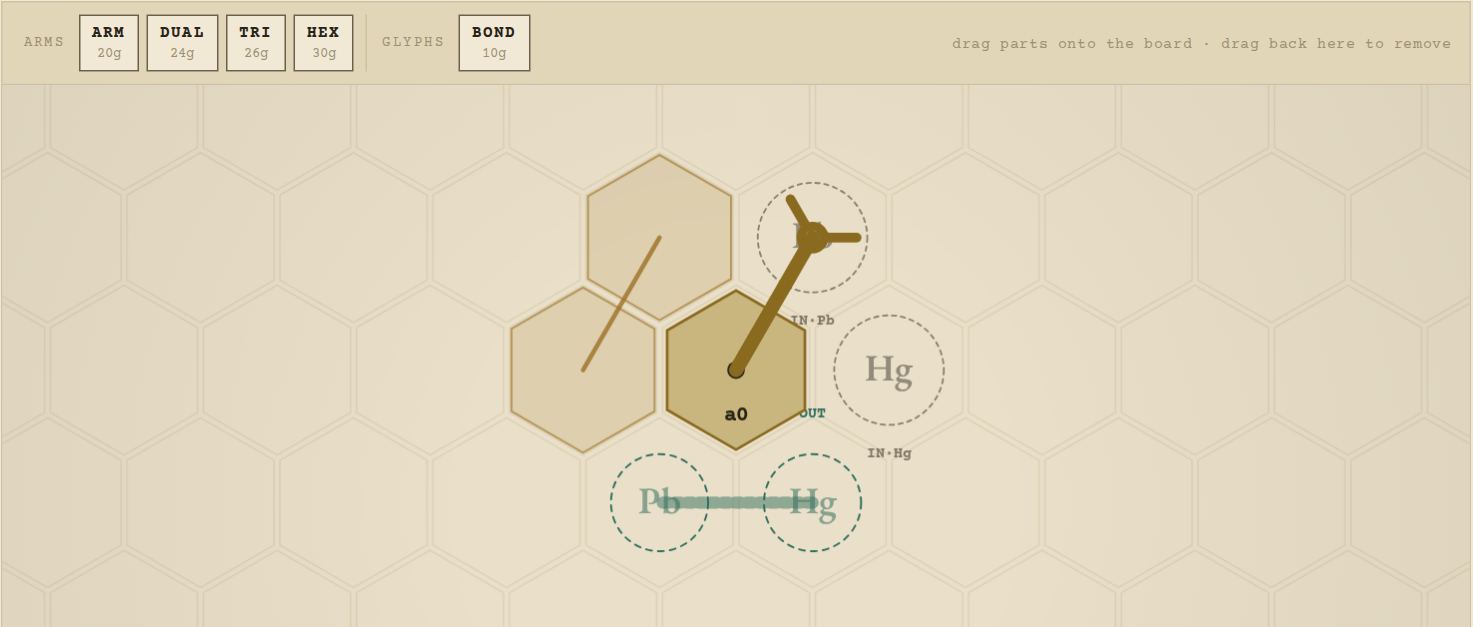
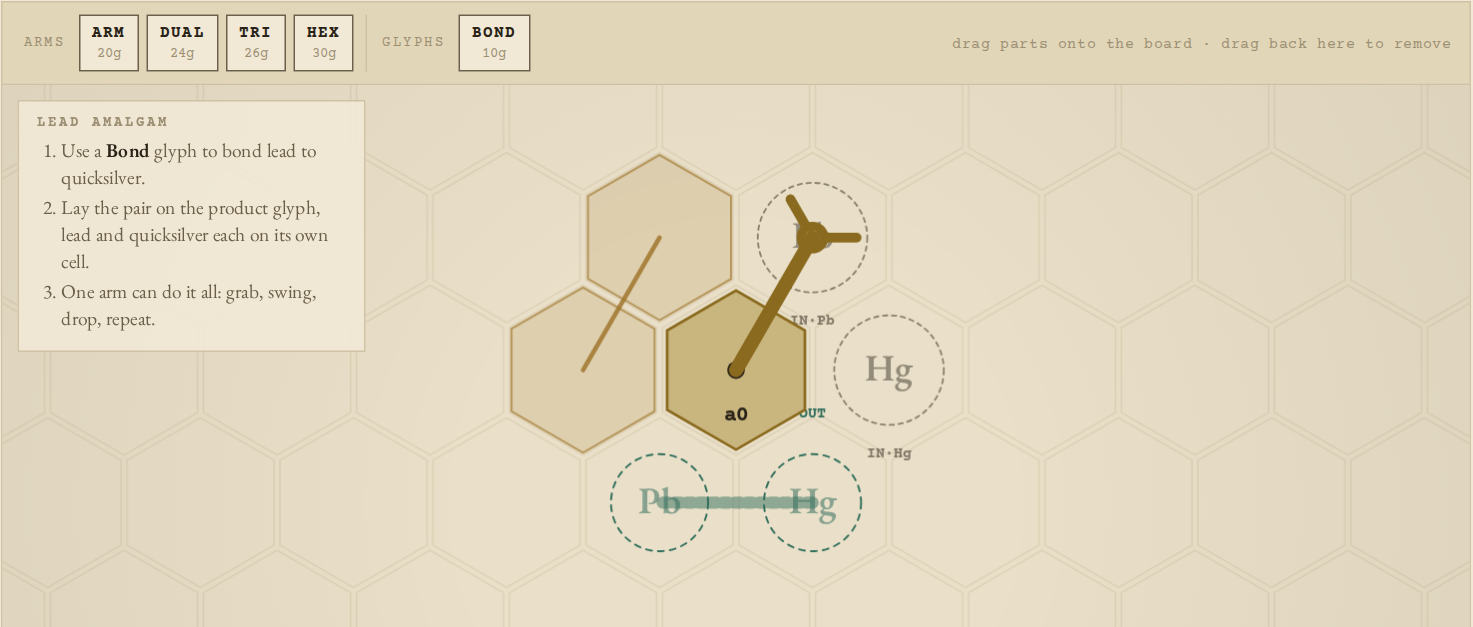
Each puzzle carries a short guide, pinned to the board's top-left
The catalog's PRODUCTS now hold a few steps per puzzle, each naming the
glyph to use ("Use a Bond glyph to bond lead to quicksilver"); the
editor shows them in a card at the board's top-left while editing,
opposite the glyph card, and hides it during a run.

Claude-Session: https://claude.ai/code/session_018wKEnzM1VN1P3HPkKDTKnD

Changed region(s): [[0.0, 0.1818, 0.2498, 0.3939], [0.0, 0.4242, 0.2186, 0.5455], [0.2186, 0.4848, 0.2498, 0.5152]]

diff --git a/demo/editor.html b/demo/editor.html
@@ -211,7 +211,17 @@
   .glyphhelp h3 small { font-family: var(--mono); font-size: 9.5px; font-weight: 400; letter-spacing: .08em; color: var(--ink-faint); text-transform: none; }
   .glyphhelp .diagram { display: block; width: 100%; height: auto; margin-top: 6px; }
   .glyphhelp .note { font-family: var(--mono); font-size: 9.5px; letter-spacing: .04em; color: var(--ink-dim); margin-top: 6px; padding-top: 6px; border-top: 1px solid var(--line-soft); line-height: 1.5; }
-  @media (max-width: 640px) { .glyphhelp { display: none !important; } }
+  /* the puzzle guide: the same card, pinned top-left, with a few steps for this puzzle */
+  .guide {
+    position: absolute; top: 10px; left: 10px; width: 232px; max-width: calc(44% - 10px);
+    border: 1px solid var(--line); background: rgba(241,233,214,.9); color: var(--ink);
+    padding: 9px 12px 10px; pointer-events: none;
+  }
+  .guide h3 { font-family: var(--mono); font-size: 9.5px; font-weight: 700; letter-spacing: .14em; text-transform: uppercase; color: var(--ink-faint); }
+  .guide ol { margin: 5px 0 0 16px; padding: 0; }
+  .guide li { font-size: 13px; line-height: 1.35; margin: 3px 0; color: var(--ink-dim); }
+  .guide li b { font-weight: 600; color: var(--ink); }
+  @media (max-width: 640px) { .glyphhelp, .guide { display: none !important; } }
 
   /* how to play: a short tutorial with screenshots, then the controls reference */
   dialog.howtodlg { width: min(720px, calc(100vw - 36px)); }
@@ -273,6 +283,7 @@
   <div class="stagebox">
     <canvas id="field" width="980" height="560"></canvas>
     <div class="stamp" id="stamp"><div class="stamp-inner" id="stampInner"></div></div>
+    <aside class="guide" id="guide" hidden></aside>
     <aside class="glyphhelp" id="glyphHelp" hidden></aside>
   </div>
 
@@ -1562,22 +1573,43 @@
   // plus calcification wherever the product holds salt, even when salt arrives as a
   // reagent and the glyph is strictly optional. It is editor guidance, not a rule —
   // the chain verifies any glyph — but every example machine must build from its
-  // product's tray (checked below).
+  // product's tray (checked below). `guide` is the editor's little tutorial for the
+  // puzzle: a few steps, each naming the glyph to use.
   const PRODUCTS = [
     { key: 'amalgam',          name: 'Lead Amalgam',       blurb: 'Quicksilver bonded to lead. The floor every builder starts from.',
-      glyphs: ['bonders'] },
+      glyphs: ['bonders'],
+      guide: ['Use a <b>Bond</b> glyph to bond lead to quicksilver.',
+              'Lay the pair on the product glyph, lead and quicksilver each on its own cell.',
+              'One arm can do it all: grab, swing, drop, repeat.'] },
     { key: 'saltedquicksilver', name: 'Salted Quicksilver', blurb: 'Salt, quicksilver, salt in one chain.',
-      glyphs: ['bonders', 'calcifiers'] },
+      glyphs: ['bonders', 'calcifiers'],
+      guide: ['Use a <b>Bond</b> glyph to bond salt to quicksilver.',
+              'Bond the second salt to the quicksilver\'s other side, in a bent chain.',
+              'Turn the chain to match the product glyph before you lay it down.'] },
     { key: 'transmutedgold',   name: 'Transmuted Gold',    blurb: 'Lead to tin to iron to copper to silver to gold, one rung per quicksilver.',
-      glyphs: ['projectors', 'purifiers'] },
+      glyphs: ['projectors', 'purifiers'],
+      guide: ['Use a <b>Projection</b> glyph to turn lead to tin: the metal on one cell, a released quicksilver on the other.',
+              'Feed it quicksilver again and again — tin to iron, iron to copper, copper to silver, silver to gold.',
+              'A <b>Purify</b> glyph climbs the same ladder by fusing two of a metal instead.'] },
     { key: 'vitalsalts',       name: 'Vital Salts',        blurb: 'Two salts, mors and vitae in a chain — water alone, calcified and animated.',
-      glyphs: ['bonders', 'calcifiers', 'animismus'] },
+      glyphs: ['bonders', 'calcifiers', 'animismus'],
+      guide: ['Use <b>Calcify</b> glyphs to turn water into salt.',
+              'Use an <b>Animismus</b> glyph to turn two released salts into vitae and mors.',
+              'Use a <b>Bond</b> glyph to chain salt, salt, mors and vitae.'] },
     { key: 'airshipfuel',      name: 'Airship Fuel',       blurb: 'Fire alone becomes a zigzag of salt and flame.',
-      glyphs: ['bonders', 'calcifiers'] },
+      glyphs: ['bonders', 'calcifiers'],
+      guide: ['Use a <b>Calcify</b> glyph to turn some of the fire into salt.',
+              'Use <b>Bond</b> glyphs to build the zigzag: salt, fire, fire, salt.'] },
     { key: 'surrenderflare',   name: 'Surrender Flare',    blurb: 'An iron core sealed inside six salt petals must come out copper.',
-      glyphs: ['bonders', 'debonders', 'calcifiers', 'projectors'] },
+      glyphs: ['bonders', 'debonders', 'calcifiers', 'projectors'],
+      guide: ['Use an <b>Unbond</b> glyph to free one salt petal, so the iron core has an open side.',
+              'Use a <b>Projection</b> glyph to turn the iron to copper with a released quicksilver.',
+              'Use a <b>Bond</b> glyph to put the petal back, then deliver the flower.'] },
     { key: 'ablativecrystal',  name: 'Ablative Crystal',   blurb: 'Two silver-core flowers must become one thirteen-atom crystal. Still unsolved.',
-      glyphs: ['bonders', 'debonders', 'calcifiers', 'purifiers'] },
+      glyphs: ['bonders', 'debonders', 'calcifiers', 'purifiers'],
+      guide: ['Use <b>Unbond</b> glyphs to take the two flowers apart.',
+              'Use a <b>Purify</b> glyph to fuse the two silvers into one gold.',
+              'Use <b>Bond</b> glyphs to build the crystal: gold at the core, a ring of six fire, six salt at the points.'] },
   ];
   const GLYPH_FAMILIES = ['bonders', 'debonders', 'calcifiers', 'duplicators', 'projectors', 'purifiers', 'animismus', 'disposals'];
 
@@ -1856,7 +1888,7 @@
     return PRODUCTS.map((p, id) => {
       const examples = EXAMPLES.filter(ex => ex.product === p.key && ex.puzzle.output);
       if (!examples.length) throw new Error('product without an example: ' + p.key);
-      return { id, key: p.key, name: p.name, blurb: p.blurb, glyphs: p.glyphs.slice(), examples };
+      return { id, key: p.key, name: p.name, blurb: p.blurb, glyphs: p.glyphs.slice(), guide: (p.guide || []).slice(), examples };
     });
   }
   for (const p of PRODUCTS) {
@@ -2559,7 +2591,7 @@
   const BASES = EXAMPLES.catalog().map(entry => {
     const pz = entry.examples[0].puzzle;
     return {
-      key: entry.key, name: entry.name, blurb: entry.blurb, caps: pz.caps, glyphs: entry.glyphs,
+      key: entry.key, name: entry.name, blurb: entry.blurb, caps: pz.caps, glyphs: entry.glyphs, guide: entry.guide,
       reagentShapes: (pz.inputs || []).map(normalizeMol),
       productShape: normalizeMol(pz.output),
       defaultLayout: {
@@ -2610,6 +2642,14 @@
   function syncTray() {
     const offer = new Set(base().glyphs || []);
     document.querySelectorAll('#tray .part[data-glyph]').forEach(el => { el.hidden = !offer.has(el.dataset.glyph); });
+  }
+  // the puzzle's guide, top-left of the board while editing
+  function syncGuide() {
+    const el = $('guide');
+    const steps = base().guide || [];
+    if (mode !== 'edit' || !steps.length) { el.hidden = true; return; }
+    el.innerHTML = `<h3>${base().name}</h3><ol>${steps.map(t => `<li>${t}</li>`).join('')}</ol>`;
+    el.hidden = false;
   }
   // the tutorial card: shown for the selected glyph, or the one being carried in from the tray
   function syncGlyphHelp() {
@@ -3660,7 +3700,7 @@
     $('btnMode').textContent = '▶ Test';
     $('btnPlay').disabled = true; $('btnStep').disabled = true;
     $('tray').style.display = '';
-    stamp(); syncGifBtn();
+    stamp(); syncGifBtn(); syncGuide();
   }
   function enterRun() {
     const bad = validate();
@@ -3674,7 +3714,7 @@
     $('btnPlay').disabled = false; $('btnPlay').textContent = 'Pause';
     $('btnStep').disabled = false;
     $('tray').style.display = 'none';
-    syncGlyphHelp();
+    syncGlyphHelp(); syncGuide();
     buildTapes(); updateRunTapes(); hud(); stamp(); syncGifBtn(null);
     setStatus('testing — the verifier is watching every sweep');
   }

diff --git a/gifsvc/page/editor.html b/gifsvc/page/editor.html
@@ -211,7 +211,17 @@
   .glyphhelp h3 small { font-family: var(--mono); font-size: 9.5px; font-weight: 400; letter-spacing: .08em; color: var(--ink-faint); text-transform: none; }
   .glyphhelp .diagram { display: block; width: 100%; height: auto; margin-top: 6px; }
   .glyphhelp .note { font-family: var(--mono); font-size: 9.5px; letter-spacing: .04em; color: var(--ink-dim); margin-top: 6px; padding-top: 6px; border-top: 1px solid var(--line-soft); line-height: 1.5; }
-  @media (max-width: 640px) { .glyphhelp { display: none !important; } }
+  /* the puzzle guide: the same card, pinned top-left, with a few steps for this puzzle */
+  .guide {
+    position: absolute; top: 10px; left: 10px; width: 232px; max-width: calc(44% - 10px);
+    border: 1px solid var(--line); background: rgba(241,233,214,.9); color: var(--ink);
+    padding: 9px 12px 10px; pointer-events: none;
+  }
+  .guide h3 { font-family: var(--mono); font-size: 9.5px; font-weight: 700; letter-spacing: .14em; text-transform: uppercase; color: var(--ink-faint); }
+  .guide ol { margin: 5px 0 0 16px; padding: 0; }
+  .guide li { font-size: 13px; line-height: 1.35; margin: 3px 0; color: var(--ink-dim); }
+  .guide li b { font-weight: 600; color: var(--ink); }
+  @media (max-width: 640px) { .glyphhelp, .guide { display: none !important; } }
 
   /* how to play: a short tutorial with screenshots, then the controls reference */
   dialog.howtodlg { width: min(720px, calc(100vw - 36px)); }
@@ -273,6 +283,7 @@
   <div class="stagebox">
     <canvas id="field" width="980" height="560"></canvas>
     <div class="stamp" id="stamp"><div class="stamp-inner" id="stampInner"></div></div>
+    <aside class="guide" id="guide" hidden></aside>
     <aside class="glyphhelp" id="glyphHelp" hidden></aside>
   </div>
 
@@ -1562,22 +1573,43 @@
   // plus calcification wherever the product holds salt, even when salt arrives as a
   // reagent and the glyph is strictly optional. It is editor guidance, not a rule —
   // the chain verifies any glyph — but every example machine must build from its
-  // product's tray (checked below).
+  // product's tray (checked below). `guide` is the editor's little tutorial for the
+  // puzzle: a few steps, each naming the glyph to use.
   const PRODUCTS = [
     { key: 'amalgam',          name: 'Lead Amalgam',       blurb: 'Quicksilver bonded to lead. The floor every builder starts from.',
-      glyphs: ['bonders'] },
+      glyphs: ['bonders'],
+      guide: ['Use a <b>Bond</b> glyph to bond lead to quicksilver.',
+              'Lay the pair on the product glyph, lead and quicksilver each on its own cell.',
+              'One arm can do it all: grab, swing, drop, repeat.'] },
     { key: 'saltedquicksilver', name: 'Salted Quicksilver', blurb: 'Salt, quicksilver, salt in one chain.',
-      glyphs: ['bonders', 'calcifiers'] },
+      glyphs: ['bonders', 'calcifiers'],
+      guide: ['Use a <b>Bond</b> glyph to bond salt to quicksilver.',
+              'Bond the second salt to the quicksilver\'s other side, in a bent chain.',
+              'Turn the chain to match the product glyph before you lay it down.'] },
     { key: 'transmutedgold',   name: 'Transmuted Gold',    blurb: 'Lead to tin to iron to copper to silver to gold, one rung per quicksilver.',
-      glyphs: ['projectors', 'purifiers'] },
+      glyphs: ['projectors', 'purifiers'],
+      guide: ['Use a <b>Projection</b> glyph to turn lead to tin: the metal on one cell, a released quicksilver on the other.',
+              'Feed it quicksilver again and again — tin to iron, iron to copper, copper to silver, silver to gold.',
+              'A <b>Purify</b> glyph climbs the same ladder by fusing two of a metal instead.'] },
     { key: 'vitalsalts',       name: 'Vital Salts',        blurb: 'Two salts, mors and vitae in a chain — water alone, calcified and animated.',
-      glyphs: ['bonders', 'calcifiers', 'animismus'] },
+      glyphs: ['bonders', 'calcifiers', 'animismus'],
+      guide: ['Use <b>Calcify</b> glyphs to turn water into salt.',
+              'Use an <b>Animismus</b> glyph to turn two released salts into vitae and mors.',
+              'Use a <b>Bond</b> glyph to chain salt, salt, mors and vitae.'] },
     { key: 'airshipfuel',      name: 'Airship Fuel',       blurb: 'Fire alone becomes a zigzag of salt and flame.',
-      glyphs: ['bonders', 'calcifiers'] },
+      glyphs: ['bonders', 'calcifiers'],
+      guide: ['Use a <b>Calcify</b> glyph to turn some of the fire into salt.',
+              'Use <b>Bond</b> glyphs to build the zigzag: salt, fire, fire, salt.'] },
     { key: 'surrenderflare',   name: 'Surrender Flare',    blurb: 'An iron core sealed inside six salt petals must come out copper.',
-      glyphs: ['bonders', 'debonders', 'calcifiers', 'projectors'] },
+      glyphs: ['bonders', 'debonders', 'calcifiers', 'projectors'],
+      guide: ['Use an <b>Unbond</b> glyph to free one salt petal, so the iron core has an open side.',
+              'Use a <b>Projection</b> glyph to turn the iron to copper with a released quicksilver.',
+              'Use a <b>Bond</b> glyph to put the petal back, then deliver the flower.'] },
     { key: 'ablativecrystal',  name: 'Ablative Crystal',   blurb: 'Two silver-core flowers must become one thirteen-atom crystal. Still unsolved.',
-      glyphs: ['bonders', 'debonders', 'calcifiers', 'purifiers'] },
+      glyphs: ['bonders', 'debonders', 'calcifiers', 'purifiers'],
+      guide: ['Use <b>Unbond</b> glyphs to take the two flowers apart.',
+              'Use a <b>Purify</b> glyph to fuse the two silvers into one gold.',
+              'Use <b>Bond</b> glyphs to build the crystal: gold at the core, a ring of six fire, six salt at the points.'] },
   ];
   const GLYPH_FAMILIES = ['bonders', 'debonders', 'calcifiers', 'duplicators', 'projectors', 'purifiers', 'animismus', 'disposals'];
 
@@ -1856,7 +1888,7 @@
     return PRODUCTS.map((p, id) => {
       const examples = EXAMPLES.filter(ex => ex.product === p.key && ex.puzzle.output);
       if (!examples.length) throw new Error('product without an example: ' + p.key);
-      return { id, key: p.key, name: p.name, blurb: p.blurb, glyphs: p.glyphs.slice(), examples };
+      return { id, key: p.key, name: p.name, blurb: p.blurb, glyphs: p.glyphs.slice(), guide: (p.guide || []).slice(), examples };
     });
   }
   for (const p of PRODUCTS) {
@@ -2559,7 +2591,7 @@
   const BASES = EXAMPLES.catalog().map(entry => {
     const pz = entry.examples[0].puzzle;
     return {
-      key: entry.key, name: entry.name, blurb: entry.blurb, caps: pz.caps, glyphs: entry.glyphs,
+      key: entry.key, name: entry.name, blurb: entry.blurb, caps: pz.caps, glyphs: entry.glyphs, guide: entry.guide,
       reagentShapes: (pz.inputs || []).map(normalizeMol),
       productShape: normalizeMol(pz.output),
       defaultLayout: {
@@ -2610,6 +2642,14 @@
   function syncTray() {
     const offer = new Set(base().glyphs || []);
     document.querySelectorAll('#tray .part[data-glyph]').forEach(el => { el.hidden = !offer.has(el.dataset.glyph); });
+  }
+  // the puzzle's guide, top-left of the board while editing
+  function syncGuide() {
+    const el = $('guide');
+    const steps = base().guide || [];
+    if (mode !== 'edit' || !steps.length) { el.hidden = true; return; }
+    el.innerHTML = `<h3>${base().name}</h3><ol>${steps.map(t => `<li>${t}</li>`).join('')}</ol>`;
+    el.hidden = false;
   }
   // the tutorial card: shown for the selected glyph, or the one being carried in from the tray
   function syncGlyphHelp() {
@@ -3660,7 +3700,7 @@
     $('btnMode').textContent = '▶ Test';
     $('btnPlay').disabled = true; $('btnStep').disabled = true;
     $('tray').style.display = '';
-    stamp(); syncGifBtn();
+    stamp(); syncGifBtn(); syncGuide();
   }
   function enterRun() {
     const bad = validate();
@@ -3674,7 +3714,7 @@
     $('btnPlay').disabled = false; $('btnPlay').textContent = 'Pause';
     $('btnStep').disabled = false;
     $('tray').style.display = 'none';
-    syncGlyphHelp();
+    syncGlyphHelp(); syncGuide();
     buildTapes(); updateRunTapes(); hud(); stamp(); syncGifBtn(null);
     setStatus('testing — the verifier is watching every sweep');
   }

diff --git a/engine/examples.js b/engine/examples.js
@@ -14,22 +14,43 @@
   // plus calcification wherever the product holds salt, even when salt arrives as a
   // reagent and the glyph is strictly optional. It is editor guidance, not a rule —
   // the chain verifies any glyph — but every example machine must build from its
-  // product's tray (checked below).
+  // product's tray (checked below). `guide` is the editor's little tutorial for the
+  // puzzle: a few steps, each naming the glyph to use.
   const PRODUCTS = [
     { key: 'amalgam',          name: 'Lead Amalgam',       blurb: 'Quicksilver bonded to lead. The floor every builder starts from.',
-      glyphs: ['bonders'] },
+      glyphs: ['bonders'],
+      guide: ['Use a <b>Bond</b> glyph to bond lead to quicksilver.',
+              'Lay the pair on the product glyph, lead and quicksilver each on its own cell.',
+              'One arm can do it all: grab, swing, drop, repeat.'] },
     { key: 'saltedquicksilver', name: 'Salted Quicksilver', blurb: 'Salt, quicksilver, salt in one chain.',
-      glyphs: ['bonders', 'calcifiers'] },
+      glyphs: ['bonders', 'calcifiers'],
+      guide: ['Use a <b>Bond</b> glyph to bond salt to quicksilver.',
+              'Bond the second salt to the quicksilver\'s other side, in a bent chain.',
+              'Turn the chain to match the product glyph before you lay it down.'] },
     { key: 'transmutedgold',   name: 'Transmuted Gold',    blurb: 'Lead to tin to iron to copper to silver to gold, one rung per quicksilver.',
-      glyphs: ['projectors', 'purifiers'] },
+      glyphs: ['projectors', 'purifiers'],
+      guide: ['Use a <b>Projection</b> glyph to turn lead to tin: the metal on one cell, a released quicksilver on the other.',
+              'Feed it quicksilver again and again — tin to iron, iron to copper, copper to silver, silver to gold.',
+              'A <b>Purify</b> glyph climbs the same ladder by fusing two of a metal instead.'] },
     { key: 'vitalsalts',       name: 'Vital Salts',        blurb: 'Two salts, mors and vitae in a chain — water alone, calcified and animated.',
-      glyphs: ['bonders', 'calcifiers', 'animismus'] },
+      glyphs: ['bonders', 'calcifiers', 'animismus'],
+      guide: ['Use <b>Calcify</b> glyphs to turn water into salt.',
+              'Use an <b>Animismus</b> glyph to turn two released salts into vitae and mors.',
+              'Use a <b>Bond</b> glyph to chain salt, salt, mors and vitae.'] },
     { key: 'airshipfuel',      name: 'Airship Fuel',       blurb: 'Fire alone becomes a zigzag of salt and flame.',
-      glyphs: ['bonders', 'calcifiers'] },
+      glyphs: ['bonders', 'calcifiers'],
+      guide: ['Use a <b>Calcify</b> glyph to turn some of the fire into salt.',
+              'Use <b>Bond</b> glyphs to build the zigzag: salt, fire, fire, salt.'] },
     { key: 'surrenderflare',   name: 'Surrender Flare',    blurb: 'An iron core sealed inside six salt petals must come out copper.',
-      glyphs: ['bonders', 'debonders', 'calcifiers', 'projectors'] },
+      glyphs: ['bonders', 'debonders', 'calcifiers', 'projectors'],
+      guide: ['Use an <b>Unbond</b> glyph to free one salt petal, so the iron core has an open side.',
+              'Use a <b>Projection</b> glyph to turn the iron to copper with a released quicksilver.',
+              'Use a <b>Bond</b> glyph to put the petal back, then deliver the flower.'] },
     { key: 'ablativecrystal',  name: 'Ablative Crystal',   blurb: 'Two silver-core flowers must become one thirteen-atom crystal. Still unsolved.',
-      glyphs: ['bonders', 'debonders', 'calcifiers', 'purifiers'] },
+      glyphs: ['bonders', 'debonders', 'calcifiers', 'purifiers'],
+      guide: ['Use <b>Unbond</b> glyphs to take the two flowers apart.',
+              'Use a <b>Purify</b> glyph to fuse the two silvers into one gold.',
+              'Use <b>Bond</b> glyphs to build the crystal: gold at the core, a ring of six fire, six salt at the points.'] },
   ];
   const GLYPH_FAMILIES = ['bonders', 'debonders', 'calcifiers', 'duplicators', 'projectors', 'purifiers', 'animismus', 'disposals'];
 
@@ -308,7 +329,7 @@
     return PRODUCTS.map((p, id) => {
       const examples = EXAMPLES.filter(ex => ex.product === p.key && ex.puzzle.output);
       if (!examples.length) throw new Error('product without an example: ' + p.key);
-      return { id, key: p.key, name: p.name, blurb: p.blurb, glyphs: p.glyphs.slice(), examples };
+      return { id, key: p.key, name: p.name, blurb: p.blurb, glyphs: p.glyphs.slice(), guide: (p.guide || []).slice(), examples };
     });
   }
   for (const p of PRODUCTS) {

diff --git a/lab/editor-template.html b/lab/editor-template.html
@@ -211,7 +211,17 @@
   .glyphhelp h3 small { font-family: var(--mono); font-size: 9.5px; font-weight: 400; letter-spacing: .08em; color: var(--ink-faint); text-transform: none; }
   .glyphhelp .diagram { display: block; width: 100%; height: auto; margin-top: 6px; }
   .glyphhelp .note { font-family: var(--mono); font-size: 9.5px; letter-spacing: .04em; color: var(--ink-dim); margin-top: 6px; padding-top: 6px; border-top: 1px solid var(--line-soft); line-height: 1.5; }
-  @media (max-width: 640px) { .glyphhelp { display: none !important; } }
+  /* the puzzle guide: the same card, pinned top-left, with a few steps for this puzzle */
+  .guide {
+    position: absolute; top: 10px; left: 10px; width: 232px; max-width: calc(44% - 10px);
+    border: 1px solid var(--line); background: rgba(241,233,214,.9); color: var(--ink);
+    padding: 9px 12px 10px; pointer-events: none;
+  }
+  .guide h3 { font-family: var(--mono); font-size: 9.5px; font-weight: 700; letter-spacing: .14em; text-transform: uppercase; color: var(--ink-faint); }
+  .guide ol { margin: 5px 0 0 16px; padding: 0; }
+  .guide li { font-size: 13px; line-height: 1.35; margin: 3px 0; color: var(--ink-dim); }
+  .guide li b { font-weight: 600; color: var(--ink); }
+  @media (max-width: 640px) { .glyphhelp, .guide { display: none !important; } }
 
   /* how to play: a short tutorial with screenshots, then the controls reference */
   dialog.howtodlg { width: min(720px, calc(100vw - 36px)); }
@@ -273,6 +283,7 @@
   <div class="stagebox">
     <canvas id="field" width="980" height="560"></canvas>
     <div class="stamp" id="stamp"><div class="stamp-inner" id="stampInner"></div></div>
+    <aside class="guide" id="guide" hidden></aside>
     <aside class="glyphhelp" id="glyphHelp" hidden></aside>
   </div>
 
@@ -555,7 +566,7 @@
   const BASES = EXAMPLES.catalog().map(entry => {
     const pz = entry.examples[0].puzzle;
     return {
-      key: entry.key, name: entry.name, blurb: entry.blurb, caps: pz.caps, glyphs: entry.glyphs,
+      key: entry.key, name: entry.name, blurb: entry.blurb, caps: pz.caps, glyphs: entry.glyphs, guide: entry.guide,
       reagentShapes: (pz.inputs || []).map(normalizeMol),
       productShape: normalizeMol(pz.output),
       defaultLayout: {
@@ -606,6 +617,14 @@
   function syncTray() {
     const offer = new Set(base().glyphs || []);
     document.querySelectorAll('#tray .part[data-glyph]').forEach(el => { el.hidden = !offer.has(el.dataset.glyph); });
+  }
+  // the puzzle's guide, top-left of the board while editing
+  function syncGuide() {
+    const el = $('guide');
+    const steps = base().guide || [];
+    if (mode !== 'edit' || !steps.length) { el.hidden = true; return; }
+    el.innerHTML = `<h3>${base().name}</h3><ol>${steps.map(t => `<li>${t}</li>`).join('')}</ol>`;
+    el.hidden = false;
   }
   // the tutorial card: shown for the selected glyph, or the one being carried in from the tray
   function syncGlyphHelp() {
@@ -1656,7 +1675,7 @@
     $('btnMode').textContent = '▶ Test';
     $('btnPlay').disabled = true; $('btnStep').disabled = true;
     $('tray').style.display = '';
-    stamp(); syncGifBtn();
+    stamp(); syncGifBtn(); syncGuide();
   }
   function enterRun() {
     const bad = validate();
@@ -1670,7 +1689,7 @@
     $('btnPlay').disabled = false; $('btnPlay').textContent = 'Pause';
     $('btnStep').disabled = false;
     $('tray').style.display = 'none';
-    syncGlyphHelp();
+    syncGlyphHelp(); syncGuide();
     buildTapes(); updateRunTapes(); hud(); stamp(); syncGifBtn(null);
     setStatus('testing — the verifier is watching every sweep');
   }
